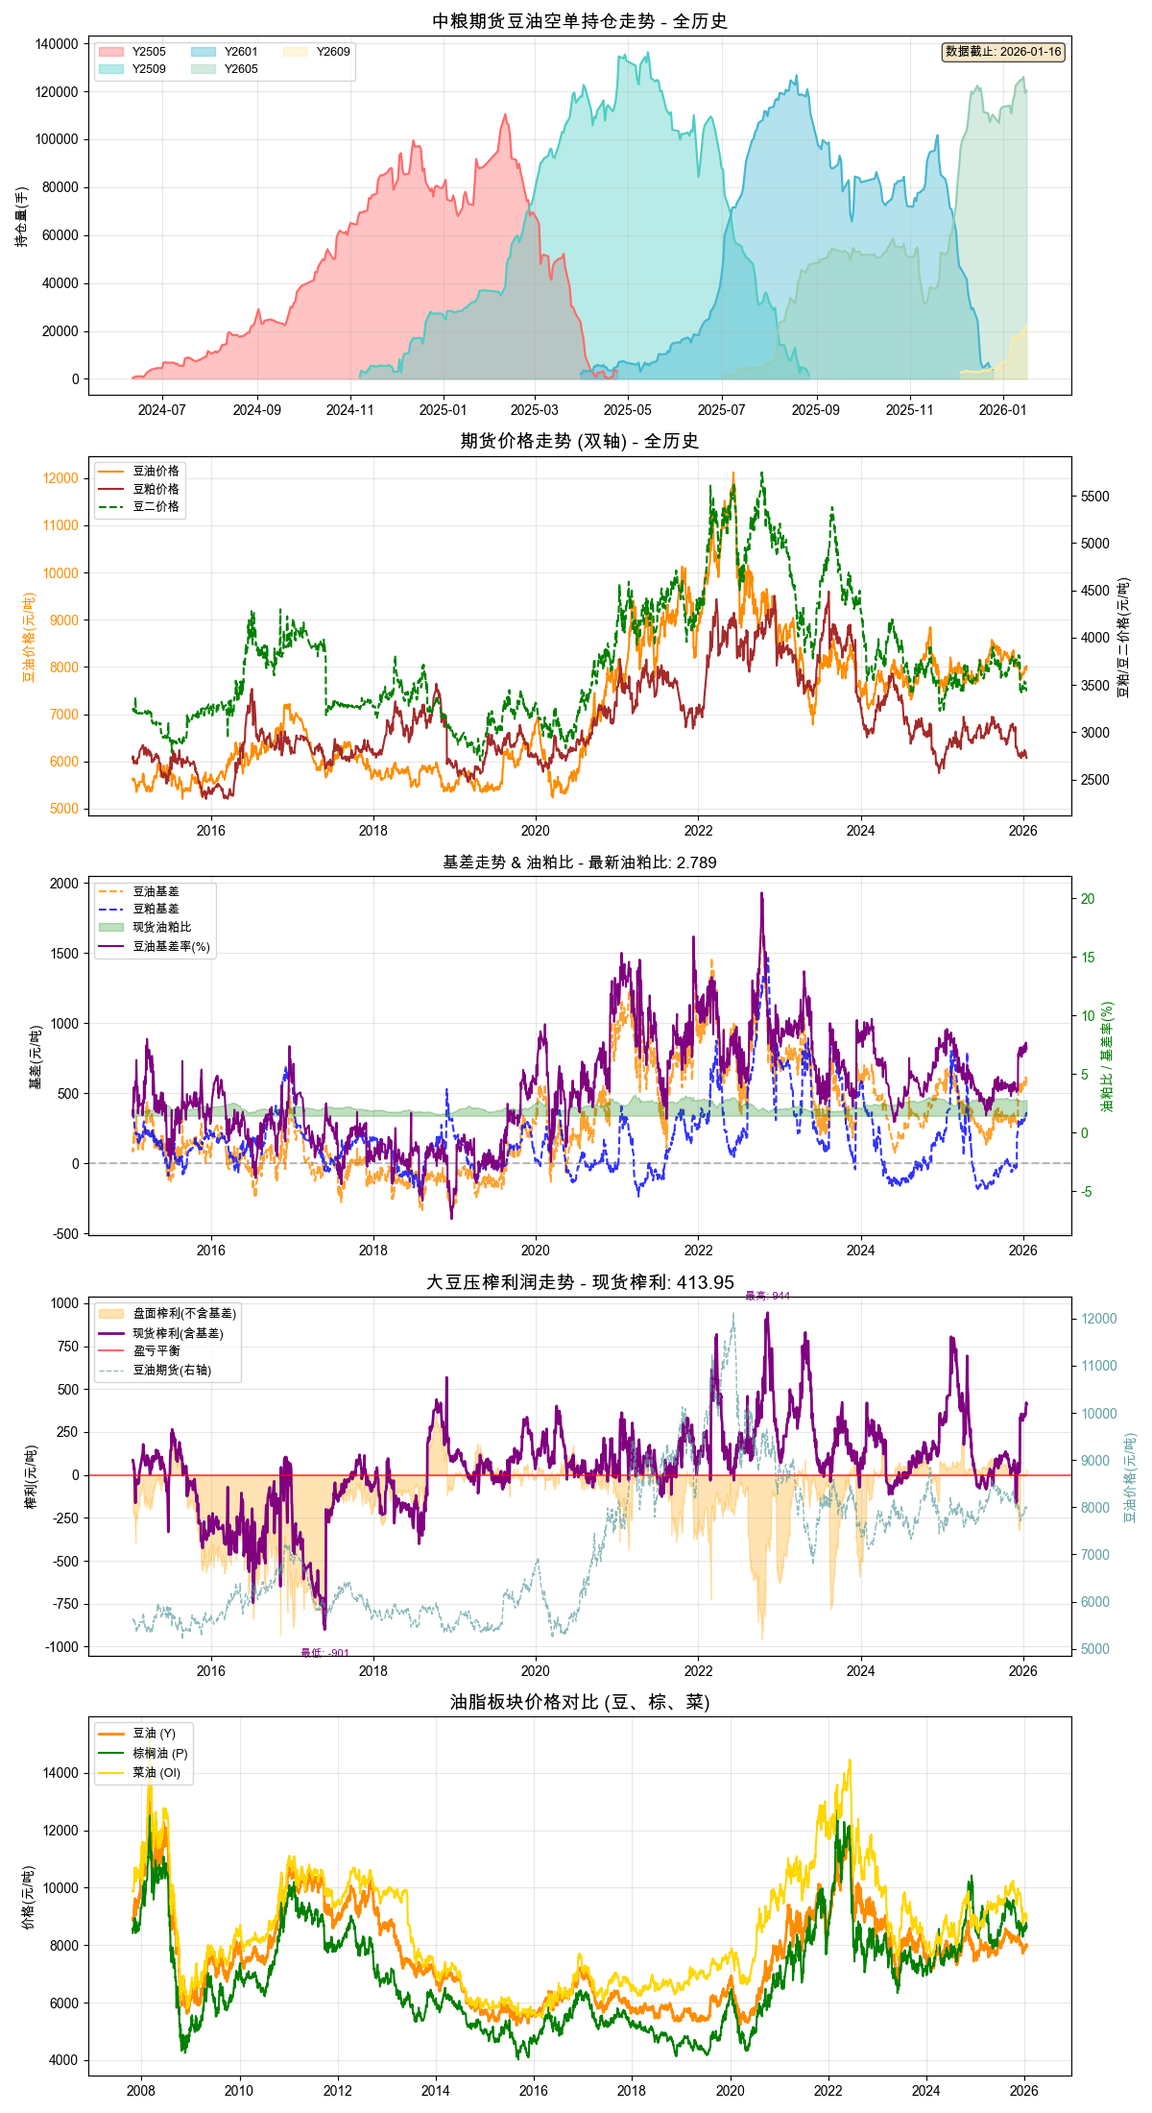
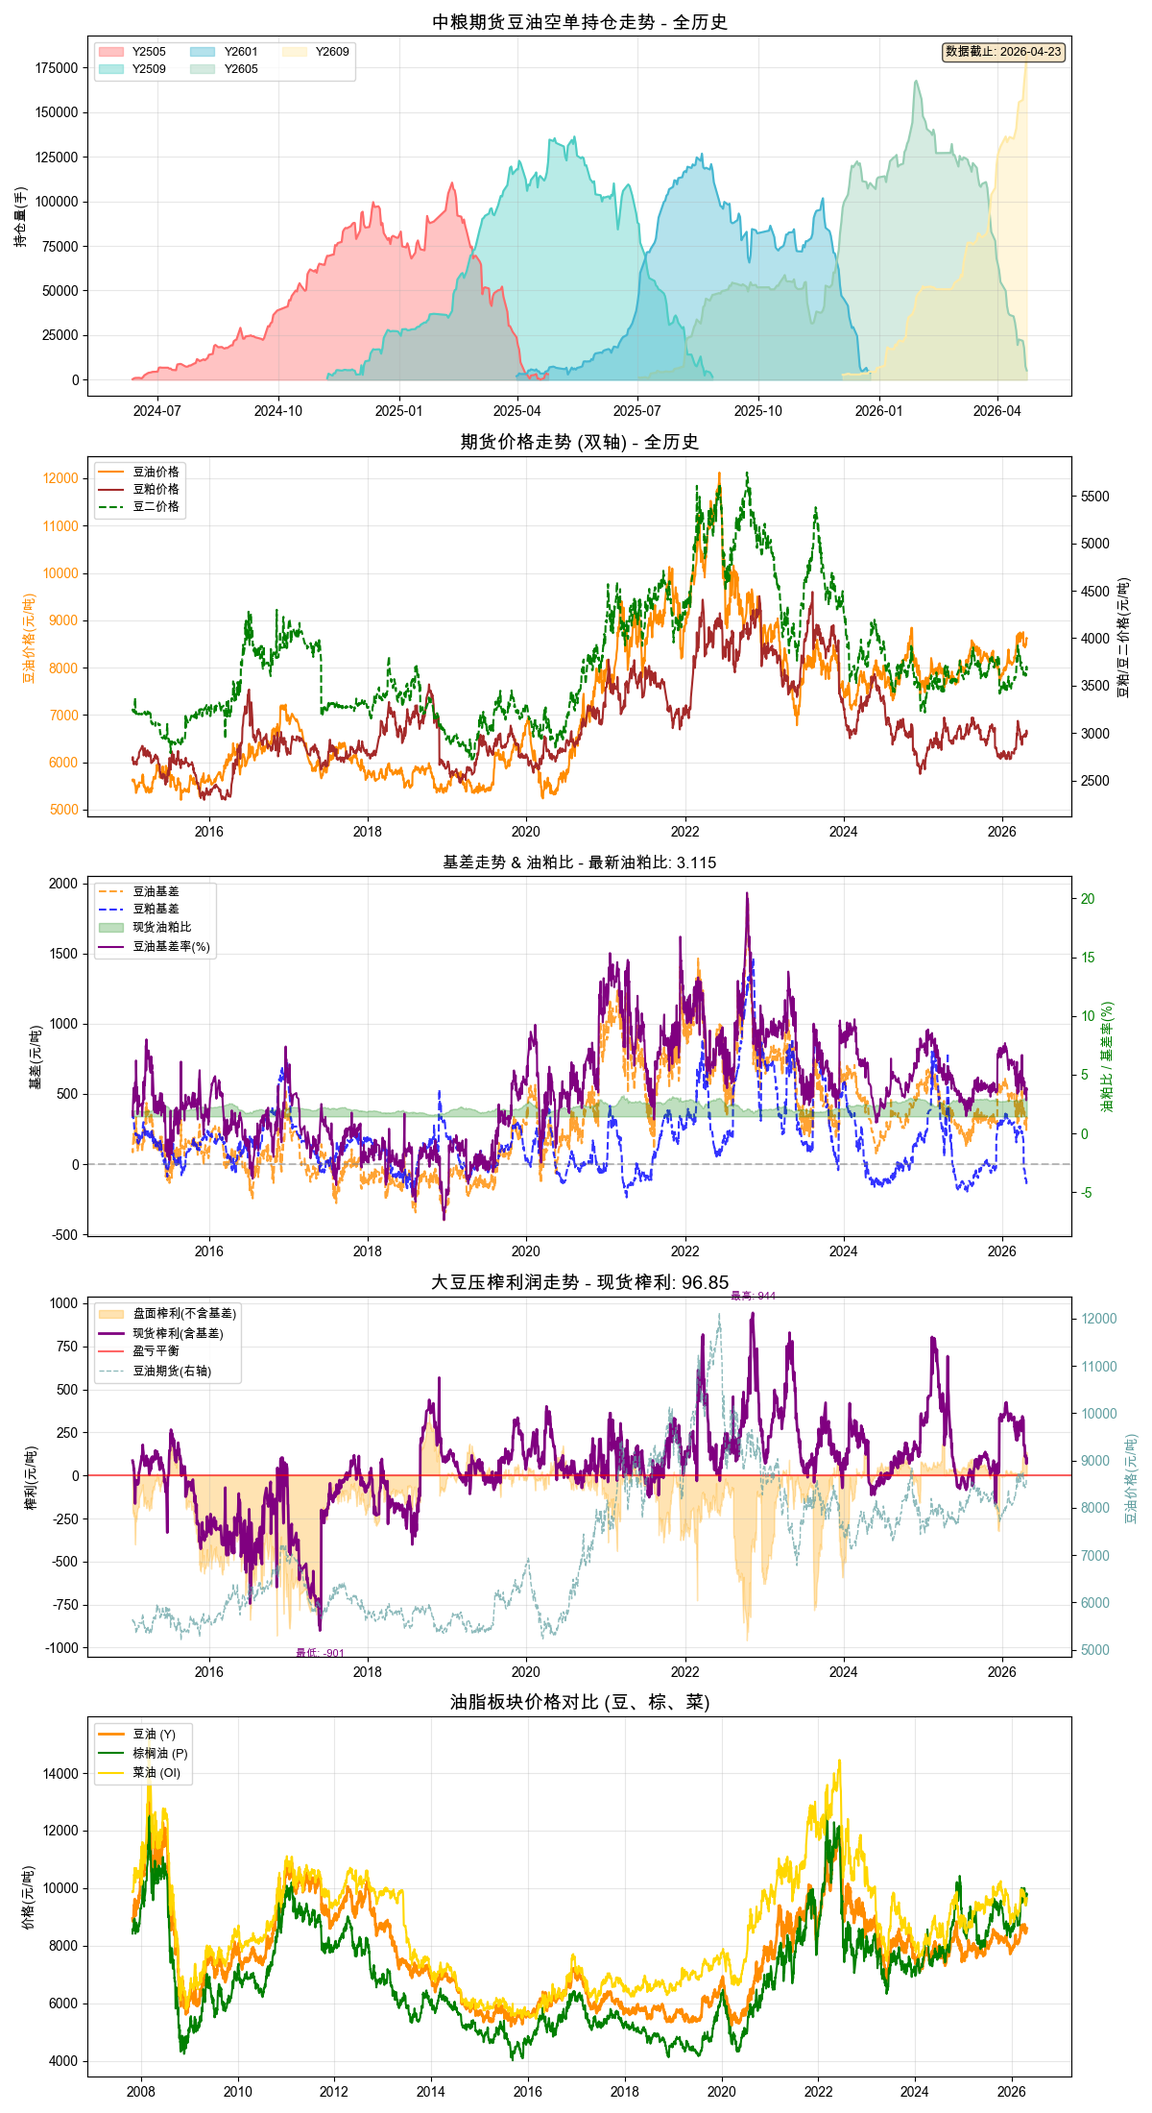
本地更新: 2026-04-24 11:53:39

diff --git a/分析文章脚本/AI市场宽度分析师_v4.py b/分析文章脚本/AI市场宽度分析师_v4.py
@@ -21,7 +21,13 @@ plt.rcParams['axes.unicode_minus'] = False
 
 # ================= 配置区域 =================
 # 请在环境变量中设置 DEEPSEEK_API_KEY，或直接在此处填入 (不推荐直接提交到代码库)
-DEEPSEEK_API_KEY = os.getenv("DEEPSEEK_API_KEY", "sk-063857d175bd48038684520e7b6ec934")
+try:
+    from dotenv import load_dotenv
+    load_dotenv()
+except ImportError:
+    pass
+
+DEEPSEEK_API_KEY = os.getenv("DEEPSEEK_API_KEY")
 DEEPSEEK_BASE_URL = "https://api.deepseek.com/v1"  # DeepSeek 官方 API 地址
 
 

diff --git a/分析文章脚本/AI行业分析师.py b/分析文章脚本/AI行业分析师.py
@@ -35,7 +35,13 @@ import pytz
 # =============================================================================
 
 # ---------------- DeepSeek API 配置 ----------------
-DEEPSEEK_API_KEY = os.getenv("DEEPSEEK_API_KEY", "sk-063857d175bd48038684520e7b6ec934")
+try:
+    from dotenv import load_dotenv
+    load_dotenv()
+except ImportError:
+    pass
+
+DEEPSEEK_API_KEY = os.getenv("DEEPSEEK_API_KEY")
 DEEPSEEK_BASE_URL = "https://api.deepseek.com"
 MODEL_NAME = "deepseek-chat"
 

diff --git a/分析文章脚本/豆油持仓价格榨利分析.py b/分析文章脚本/豆油持仓价格榨利分析.py
@@ -25,7 +25,13 @@ import pytz
 urllib3.disable_warnings(urllib3.exceptions.InsecureRequestWarning)
 
 # ================= 配置区域 =================
-DEEPSEEK_API_KEY = os.getenv("DEEPSEEK_API_KEY", "sk-063857d175bd48038684520e7b6ec934")
+try:
+    from dotenv import load_dotenv
+    load_dotenv()
+except ImportError:
+    pass
+
+DEEPSEEK_API_KEY = os.getenv("DEEPSEEK_API_KEY")
 DEEPSEEK_BASE_URL = "https://api.deepseek.com/v1"
 
 # 获取脚本所在目录

diff --git a/分析文章脚本/榨利计算深度分析_v3 copy.py b/分析文章脚本/榨利计算深度分析_v3 copy.py
@@ -22,7 +22,13 @@ import urllib3
 import pytz
 
 # ================= 配置区域 =================
-DEEPSEEK_API_KEY = os.getenv("DEEPSEEK_API_KEY", "sk-063857d175bd48038684520e7b6ec934")
+try:
+    from dotenv import load_dotenv
+    load_dotenv()
+except ImportError:
+    pass
+
+DEEPSEEK_API_KEY = os.getenv("DEEPSEEK_API_KEY")
 DEEPSEEK_BASE_URL = "https://api.deepseek.com/v1"
 
 # Hugo 博客配置

diff --git a/分析文章脚本/榨利计算深度分析_v3.py b/分析文章脚本/榨利计算深度分析_v3.py
@@ -22,7 +22,13 @@ import urllib3
 import pytz
 
 # ================= 配置区域 =================
-DEEPSEEK_API_KEY = os.getenv("DEEPSEEK_API_KEY", "sk-063857d175bd48038684520e7b6ec934")
+try:
+    from dotenv import load_dotenv
+    load_dotenv()
+except ImportError:
+    pass
+
+DEEPSEEK_API_KEY = os.getenv("DEEPSEEK_API_KEY")
 DEEPSEEK_BASE_URL = "https://api.deepseek.com/v1"
 
 # Hugo 博客配置

diff --git a/分析文章脚本/AI油脂期货分析师_增强版.py b/分析文章脚本/AI油脂期货分析师_增强版.py
@@ -7,7 +7,13 @@ import requests
 import os
 
 # ================= 配置区域 =================
-DEEPSEEK_API_KEY = os.getenv("DEEPSEEK_API_KEY", "sk-063857d175bd48038684520e7b6ec934")
+try:
+    from dotenv import load_dotenv
+    load_dotenv()
+except ImportError:
+    pass
+
+DEEPSEEK_API_KEY = os.getenv("DEEPSEEK_API_KEY")
 DEEPSEEK_BASE_URL = "https://api.deepseek.com/v1"
 
 # Hugo 博客配置

diff --git a/分析文章脚本/综合油脂产业链深度分析器.py b/分析文章脚本/综合油脂产业链深度分析器.py
@@ -21,7 +21,13 @@ import urllib3
 import pytz
 
 # ================= 配置区域 =================
-DEEPSEEK_API_KEY = os.getenv("DEEPSEEK_API_KEY", "sk-063857d175bd48038684520e7b6ec934")
+try:
+    from dotenv import load_dotenv
+    load_dotenv()
+except ImportError:
+    pass
+
+DEEPSEEK_API_KEY = os.getenv("DEEPSEEK_API_KEY")
 DEEPSEEK_BASE_URL = "https://api.deepseek.com/v1"
 
 # 路径配置

diff --git a/分析文章脚本/organize_categories.py b/分析文章脚本/organize_categories.py
@@ -6,7 +6,13 @@ import time
 
 # 配置
 POSTS_DIR = "/Users/ccy/Hugo-blog/content/posts"
-DEEPSEEK_API_KEY = "sk-f637d9858dda4c86bd3ec411a6b4bb81"
+try:
+    from dotenv import load_dotenv
+    load_dotenv()
+except ImportError:
+    pass
+
+DEEPSEEK_API_KEY = os.getenv("DEEPSEEK_API_KEY")
 DEEPSEEK_BASE_URL = "https://api.deepseek.com"
 
 # 预设分类及其描述

diff --git a/content/posts/榨利深度分析报告.md b/content/posts/榨利深度分析报告.md
@@ -1,7 +1,7 @@
 ---
 title: "🫘大豆榨利深度分析报告"
-date: 2026-04-23T23:05:47+08:00
-lastmod: 2026-04-23T23:05:47+08:00
+date: 2026-04-24T11:52:51+08:00
+lastmod: 2026-04-24T11:52:51+08:00
 description: "自动化生成的压榨利润深度报告，引用原始版本高精绘图和 DeepSeek AI 逻辑。"
 draft: false
 categories: ["期货分析"]
@@ -18,35 +18,34 @@ image: /images/charts/margin_chart_半年.png
 
 ## 🤖 AI 首席分析师解读
 
-## 油脂压榨利润深度点评（数据截止：2026-04-23）
+**一、历史周期定位：处于低位，买压区浮现**
 
-### 1. 当前利润在历史周期中的位置：低位运行，但并非极端深水区
+当前大豆压榨利润为96.85元/吨，仅达到半年均值157.34元的61.5%，且显著低于区间中值131元（按(425-163)/2计算），更接近半年内录得的-163元极端亏损区域。这表明当前压榨利润正处于**历史周期的中低位**，而非高位盈利区间。半年胜率92.2%看似惊人，实则是**利润从极低反弹后的假象**——过去半年利润曾深跌至-163元，随后反弹至96.85元，92.2%的“胜率”仅说明利润在大部分时间处于该区间之上，但**绝对水平已逼近亏损警戒区**。若利润进一步下滑至50元以下，油厂将面临实质性亏损压力。
 
-当前压榨利润为96.85元/吨，显著低于半年均值157.34元/吨，偏离幅度约-38.5%。尽管仍处于正值区间，但已滑入历史周期中相对疲软的位置。从最值区间[-163, 425]来看，当前利润距离历史低点-163元/吨尚有约260元/吨的安全垫，但距离高点425元/吨已腰斩。这反映出油厂利润空间正在快速压缩，远月采购压榨面临明显的盈利缩窄压力。
+**二、基差分化：油强粕弱的扭曲利润结构**
 
-**关键判断**：当前利润处于半年周期的中等偏低分位，但尚未触及极端亏损区。若利润进一步逼向50元/吨以下，将触发油厂深度防御性停机或抛售远月基差。
+最新基差呈现**豆油基差极强（+322元），豆粕基差深度贴水（-124元）**，形成典型的“油强粕弱”格局。这意味着：
+- **豆油现货溢价高**：当前现货比期货强势，油厂在豆油端实际销售利润高于盘面反映，可暂缓套保，利用现货强势获取超额利润。
+- **豆粕端反向压力大**：豆粕基差贴水124元，说明市场预期豆粕现货供应宽松或需求疲弱，油厂未来在豆粕端的销售将面临折价。若寄希望于双线盈利，当前利润结构需重点**对冲豆粕基差继续走弱**的风险。
 
-### 2. 高/低基差对油厂利润策略的影响：豆油强基差支撑，豆粕弱基差拖累
+**综合预判**：豆油高基差难以长期维持（进口到港压力增加），豆粕低基差可能推向更深贴水，未来压榨利润存在**向下修正**风险。
 
-- **豆油基差+322.0元/吨**：处于高位运行，表明现货市场豆油供应紧张或需求旺盛。这一强基差对油厂利润形成直接支撑——作为压榨利润的主要贡献端，豆油的高基差意味着油厂在现货端能获取高于期货的溢价，有效对冲了盘面利润的收窄。油厂应维持豆油现货的挺价销售节奏，甚至可考虑在期货盘面卖出套保以锁定超额利润。
+**三、豆油下游生产商操作建议：被动锁价，主动防守**
 
-- **豆粕基差-124.0元/吨**：处于严重贴水状态，反映豆粕现货供应宽松、下游需求疲弱。这种负基差直接拖累整体压榨利润，造成“主产品强、副产物弱”的利润结构失衡。油厂在豆粕端需采取“以量补价”策略，主动降价去库存，避免现货积压扩大亏损，同时警惕基差深度负值可能引发的点价盘踩踏。
+1. **现货采购策略**：当前豆油现货价格因高基差处于高位，下游生产商**不宜追涨囤货**。应等待豆油基差回归均值（需关注5-6月大豆到港量，若超过850万吨将促基差回落）。坚持**低库存、按需采购**，避免在基差322元时承接高价原料。
 
-**平衡策略**：油厂应利用豆油基差强势获取现金流，同时压缩豆粕产量或增加豆粕远期点价机会，以减轻负基差的冲击。
+2. **期货采购/套保方案**：
+   - **买入极端虚值看跌期权**：豆油盘面存在回调压力，可小额支付权利金买入深度虚值看跌期权，锁定极端下跌风险。例如，买入豆油2409合约P7200（假设当前价7600），保费约20元/吨，极端下行时获得补偿。
+   - **短期空头套保组合**：在豆油现货保持高基差时，可对等量豆油现货做**卖出基差减法**——即卖出豆油期货（做空盘面），同时买入豆粕期货（做多盘面），对冲“油强粕弱”的基差侵蚀。此组合可锁定当前高基差利润，防止盘面利润进一步缩水。
+   - **禁止操作**：放弃激进的正向套保（即买入豆油期货同时卖出豆粕），当前结构已使该策略面临双头亏损。
 
-### 3. 针对豆油下游生产商的现货采购及套保建议
+**四、短期持仓避险建议：聚焦基差回归与利润保护**
 
-- **现货采购决策**：当前豆油基差+322处于历史高位区间，现货价格受强基差支撑而相对刚性。对于急需备货的生产商，建议**分批、小单采购**，避免在基差峰值时一次性大量囤货。原因是基差一旦回落（如随着进口大豆到港或压榨恢复），现货溢价将快速收敛，过早高价锁货将面临库存贬值风险。可关注远月豆油基差在+200以下时启动锁价采购。
+- **油厂对冲者**：鉴于豆油基差虽高但随时下滑，应尽快在盘面卖出对应数量的豆油期货远期合约（如Y2409），锁定现货超涨利润。豆粕端则需买入看涨期权或期货，防止超跌后的快速反弹导致基差损失扩大。核心逻辑是**“强基差锁空头，弱基差锁多头”**。
+- **投机空头**：当前利润远离极端低位，且基差结构暗示利润将承压，可**布局空头压榨套利**：卖出豆油+豆粕组合，买入CBOT大豆或国内大豆，博弈压榨利润向均值回归。止损位设在利润突破120元。
+- **企业现金管理**：建议将4-6月原料采购预算的30%配置于**持有至到期的套利策略**，如买入压榨利润虚值看跌期权，保费可控（约2%成本），应对突发性利润崩盘。
 
-- **期货买入/套保建议**：鉴于当前利润低位、豆油基差高位，豆油期货盘面（如Y2609合约）相对现货低估，生产商应**在期货盘面建立买入头寸**作为替代性现货敞口，例如买入Y2609合约替代一个月的豆油现货需求。这样既能规避基差回落带来的现货贬值，又能利用期货的低价锁定月间成本。同时，若利润持续恶化导致油厂停机，豆油供应收缩将推升期货价格，买入策略可同时捕获供应端紧缩的上涨红利。
-
-### 4. 短期持仓及企业避险建议
-
-- **多头持仓警告**：当前压榨利润96.85元/吨接近半年均值下方，若继续下行至60元/吨以下，将触发油厂加大套保力度或减少开机，进而支撑豆油、豆粕现货价格。多头应警惕利润深度下探引发的连锁反应，做好利润触底反弹时的反手准备。
-
-- **企业避险策略**：对于油厂和下游加工企业，当前市场核心矛盾是“利润压缩”与“基差分化”。优先建议使用**期权组合策略**——例如买入豆油看涨期权执行价接近期货价格+基差回落目标价位，同时卖出豆粕虚值看涨期权以收取权利金对冲豆粕弱势。此外，企业应**压减远月点价比例**，将现货敞口控制在2-3周的消费量内，待基差回落后再行补充。
-
-总结：当前压榨利润处于低位但可操作区间，豆油强基差是唯一的救命稻草。市场正处在“利润压缩博弈——基差回归”的敏感窗口，建议油厂保豆油、抛豆粕，下游择机在期货端替代现货敞口。
+**结语**：当前96.85元不是底部，是黎明前的黑暗。需警惕“油强粕弱”结构逆转，基差均值回归将压垮利润。不赌利润反弹，只做确定性基差回归对冲。
 
 ---
 
@@ -70,4 +69,4 @@ image: /images/charts/margin_chart_半年.png
 ## 🛠 计算说明
 > 榨利 = (豆油现货价格 × 18.5% + 豆粕现货价格 × 78.5%) - 豆二价格 - 150.0
 > 数据源：交易法门(基差) / Akshare(期货)
-> 更新时间：2026-04-23 23:05:47
+> 更新时间：2026-04-24 11:52:51

diff --git a/分析文章脚本/blog/榨利深度分析报告.md b/分析文章脚本/blog/榨利深度分析报告.md
@@ -1,7 +1,7 @@
 ---
 title: "🫘大豆榨利深度分析报告"
-date: 2026-01-16T21:22:43+08:00
-lastmod: 2026-01-16T21:22:43+08:00
+date: 2026-04-24T11:52:51+08:00
+lastmod: 2026-04-24T11:52:51+08:00
 description: "自动化生成的压榨利润深度报告，引用原始版本高精绘图和 DeepSeek AI 逻辑。"
 draft: false
 categories: ["期货分析"]
@@ -11,14 +11,41 @@ image: /images/charts/margin_chart_半年.png
 
 ## 🛰 数据核心快照
 
-- **最新榨利**: `413.95` 元/吨 (压榨成本：150.0)
-- **基差详情**: 豆油 `574` | 豆粕 `353`
+- **最新榨利**: `96.85` 元/吨 (压榨成本：150.0)
+- **基差详情**: 豆油 `322` | 豆粕 `-124`
 
 ---
 
 ## 🤖 AI 首席分析师解读
 
-AI 分析连接超时，请关注盘面基差变化。
+**一、历史周期定位：处于低位，买压区浮现**
+
+当前大豆压榨利润为96.85元/吨，仅达到半年均值157.34元的61.5%，且显著低于区间中值131元（按(425-163)/2计算），更接近半年内录得的-163元极端亏损区域。这表明当前压榨利润正处于**历史周期的中低位**，而非高位盈利区间。半年胜率92.2%看似惊人，实则是**利润从极低反弹后的假象**——过去半年利润曾深跌至-163元，随后反弹至96.85元，92.2%的“胜率”仅说明利润在大部分时间处于该区间之上，但**绝对水平已逼近亏损警戒区**。若利润进一步下滑至50元以下，油厂将面临实质性亏损压力。
+
+**二、基差分化：油强粕弱的扭曲利润结构**
+
+最新基差呈现**豆油基差极强（+322元），豆粕基差深度贴水（-124元）**，形成典型的“油强粕弱”格局。这意味着：
+- **豆油现货溢价高**：当前现货比期货强势，油厂在豆油端实际销售利润高于盘面反映，可暂缓套保，利用现货强势获取超额利润。
+- **豆粕端反向压力大**：豆粕基差贴水124元，说明市场预期豆粕现货供应宽松或需求疲弱，油厂未来在豆粕端的销售将面临折价。若寄希望于双线盈利，当前利润结构需重点**对冲豆粕基差继续走弱**的风险。
+
+**综合预判**：豆油高基差难以长期维持（进口到港压力增加），豆粕低基差可能推向更深贴水，未来压榨利润存在**向下修正**风险。
+
+**三、豆油下游生产商操作建议：被动锁价，主动防守**
+
+1. **现货采购策略**：当前豆油现货价格因高基差处于高位，下游生产商**不宜追涨囤货**。应等待豆油基差回归均值（需关注5-6月大豆到港量，若超过850万吨将促基差回落）。坚持**低库存、按需采购**，避免在基差322元时承接高价原料。
+
+2. **期货采购/套保方案**：
+   - **买入极端虚值看跌期权**：豆油盘面存在回调压力，可小额支付权利金买入深度虚值看跌期权，锁定极端下跌风险。例如，买入豆油2409合约P7200（假设当前价7600），保费约20元/吨，极端下行时获得补偿。
+   - **短期空头套保组合**：在豆油现货保持高基差时，可对等量豆油现货做**卖出基差减法**——即卖出豆油期货（做空盘面），同时买入豆粕期货（做多盘面），对冲“油强粕弱”的基差侵蚀。此组合可锁定当前高基差利润，防止盘面利润进一步缩水。
+   - **禁止操作**：放弃激进的正向套保（即买入豆油期货同时卖出豆粕），当前结构已使该策略面临双头亏损。
+
+**四、短期持仓避险建议：聚焦基差回归与利润保护**
+
+- **油厂对冲者**：鉴于豆油基差虽高但随时下滑，应尽快在盘面卖出对应数量的豆油期货远期合约（如Y2409），锁定现货超涨利润。豆粕端则需买入看涨期权或期货，防止超跌后的快速反弹导致基差损失扩大。核心逻辑是**“强基差锁空头，弱基差锁多头”**。
+- **投机空头**：当前利润远离极端低位，且基差结构暗示利润将承压，可**布局空头压榨套利**：卖出豆油+豆粕组合，买入CBOT大豆或国内大豆，博弈压榨利润向均值回归。止损位设在利润突破120元。
+- **企业现金管理**：建议将4-6月原料采购预算的30%配置于**持有至到期的套利策略**，如买入压榨利润虚值看跌期权，保费可控（约2%成本），应对突发性利润崩盘。
+
+**结语**：当前96.85元不是底部，是黎明前的黑暗。需警惕“油强粕弱”结构逆转，基差均值回归将压垮利润。不赌利润反弹，只做确定性基差回归对冲。
 
 ---
 
@@ -42,4 +69,4 @@ AI 分析连接超时，请关注盘面基差变化。
 ## 🛠 计算说明
 > 榨利 = (豆油现货价格 × 18.5% + 豆粕现货价格 × 78.5%) - 豆二价格 - 150.0
 > 数据源：交易法门(基差) / Akshare(期货)
-> 更新时间：2026-01-16 21:22:43
+> 更新时间：2026-04-24 11:52:51
